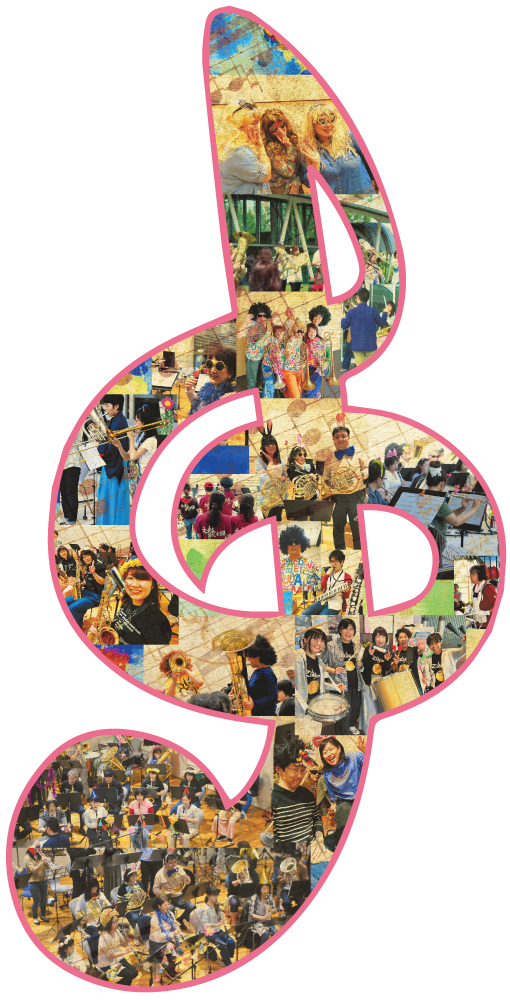
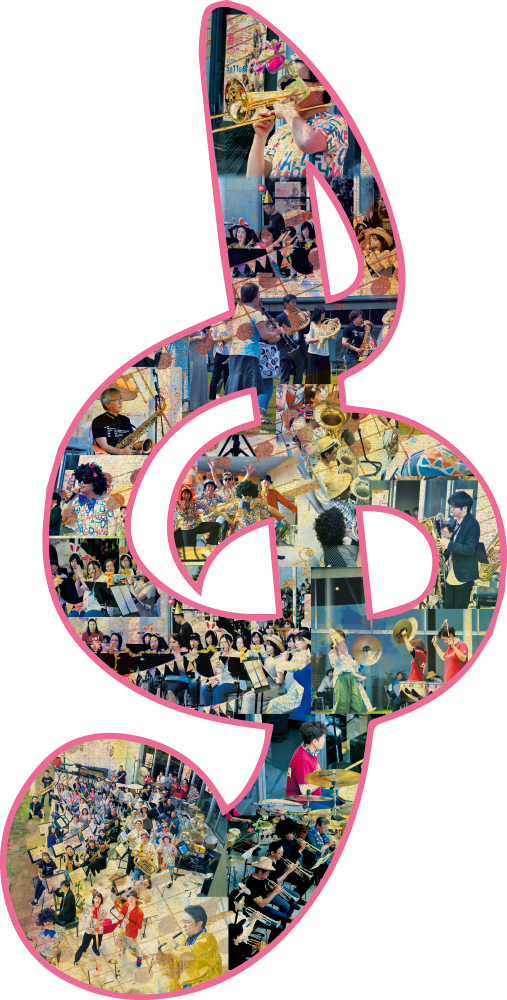
春のミニコンサート2021の案内ページの画像を差し替え

diff --git a/html/mini2021/index.html b/html/mini2021/index.html
@@ -59,9 +59,9 @@ if ($timestamp['present'] > $timestamp['end']) {
 ?>
 
 <div class="background-frame">
-  <!-- <div class="background-clef"> -->
-  <img src="img/clef.png">
-  <!-- </div> -->
+  <div class="clef fadein">
+    <img src="img/clef.png">
+  </div>
 </div>
 
 <div class="title-frame">
@@ -130,16 +130,20 @@ if ($timestamp['present'] > $timestamp['end']) {
   </div>
   <div class="program">
     <h2>プログラム</h2>
+    <p>スペイン</p>
     <p>炎</p>
+    <p>夜に駆ける</p>
     <p>ディズニーヴィランズ・メドレー</p>
     <p>コンパス・オブ・ユア・ハート</p>
-    <p>夜に駆ける など</p>
-    <p><span>指揮</span><span>今井優太</span></p>
+    <p>となりのトトロ〜コンサート・バンドのためのセレクション</p>
+    <p><span>指揮</span><span>今井優太・髙橋亮</span></p>
   </div>
   <div class="access">
-    <h2>ミニコンサートへのアクセス</h2>
-    <div id="map"></div>
-    <a href="https://www.google.co.jp/maps/dir//%E9%95%B7%E5%B2%A1%E3%83%AA%E3%83%AA%E3%83%83%E3%82%AF%E3%83%9B%E3%83%BC%E3%83%AB%E3%80%81%E3%80%92940-2108+%E6%96%B0%E6%BD%9F%E7%9C%8C%E9%95%B7%E5%B2%A1%E5%B8%82%E5%8D%83%E7%A7%8B%EF%BC%93%E4%B8%81%E7%9B%AE%EF%BC%91%EF%BC%93%EF%BC%95%EF%BC%96%E2%88%92%EF%BC%96/@37.4649032,138.8269598,17z" target="_blank" class="button">リリックホールへのルートを検索<i class="fas fa-external-link-alt"></i></a>
+    <h2>会場へのアクセス</h2>
+    <div class="map-frame">
+      <div id="map"></div>
+      <a href="https://www.google.co.jp/maps/dir//%E9%95%B7%E5%B2%A1%E3%83%AA%E3%83%AA%E3%83%83%E3%82%AF%E3%83%9B%E3%83%BC%E3%83%AB%E3%80%81%E3%80%92940-2108+%E6%96%B0%E6%BD%9F%E7%9C%8C%E9%95%B7%E5%B2%A1%E5%B8%82%E5%8D%83%E7%A7%8B%EF%BC%93%E4%B8%81%E7%9B%AE%EF%BC%91%EF%BC%93%EF%BC%95%EF%BC%96%E2%88%92%EF%BC%96/@37.4649032,138.8269598,17z" target="_blank" class="button">リリックホールへのルートを検索<i class="fas fa-external-link-alt"></i></a>
+    </div>
     <div>
       <p>〒940-2108</p>
       <p>新潟県長岡市千秋3丁目1356番地6</p>

diff --git a/html/mini2021/js/index.js b/html/mini2021/js/index.js
@@ -8,16 +8,16 @@ $('.overlay').click(function() {
 window.setTimeout(() => {
   $('.title.fadezoomin').removeClass('fadezoomin')
   $('.logo.fadein').removeClass('fadein')
+  $('.clef.fadein').removeClass('fadein')
 }, 500)
+
+window.setTimeout(() => {
+  $('.clef.fadein').removeClass('fadein')
+}, 200)
 
 window.setTimeout(() => {
   $('.eventday-frame.hidden').removeClass('hidden')
 }, 2000)
-
-
-// window.setTimeout(() => {
-//   $('.main-title.year').removeClass('opacity-0')
-// }, 3200)
 
 /* smooth scroll */
 $(function() {

diff --git a/html/mini2021/css/mini2021.css b/html/mini2021/css/mini2021.css
@@ -66,6 +66,15 @@ body {
   /* background: rgba(255,255,255,0.6); */
 }
 
+.clef {
+  opacity: 1;
+  transition: all ease-out 2s;
+}
+
+.clef.fadein {
+  opacity: 0;
+}
+
 .background-frame img {
   /* position: relative; */
   z-index: 1;
@@ -546,6 +555,9 @@ p span:last-child {
     width: 95%;
     font-size: 1em;
   }
+}
+.map-frame {
+  padding: 0 12px;
 }
 #map {
   position: relative;
